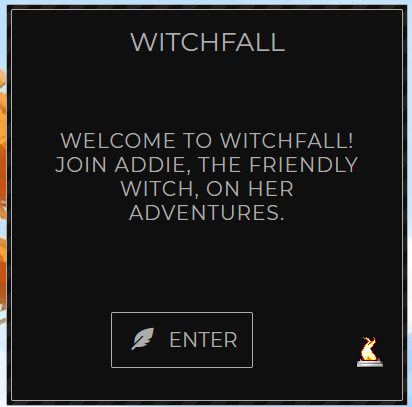
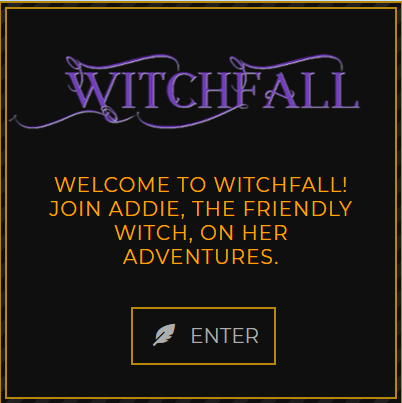
updated: updated ReadMe with new screenshots, more game play explanation, and local run instructions

diff --git a/README.md b/README.md
@@ -1,20 +1,22 @@
+<body style="background-color:black">
+
 ![WitchFall Logo](docs/assets/witchfall-a.png)
 
-# WITCHFALL RPG - A STUDENT FINAL PROJECT
+# <span style="color:orange">WITCHFALL RPG - A STUDENT FINAL PROJECT</span>
 
 
  ![Halloween Kitties](docs/assets/cat4.png)
 
 [![All Contributors](https://img.shields.io/badge/all_contributors-3-green.svg?style=flat-square)](#contributors)
 
-JUST IN TIME FOR HALLOWEEN! ![Halloween Kitties](docs/assets/evilpumpkin__by_clairebearer.gif)<br>
+<span style="color:orange">JUST IN TIME FOR HALLOWEEN!</span> ![Halloween Kitties](docs/assets/evilpumpkin__by_clairebearer.gif)<br>
 WitchFall lets you follow the adventures of Addie, the Friendly Witch.  In this Beta version, explore the town of Pumpkin Falls, where it is always October and the air smells like pumpkin spice!  This is a Halloween-themed, friendly game that our team plans to continue developing as part of our portfolio.
 
 Based on the Open-Source framework of [React RPG](https://react-rpg.com/) by [Andrew Steinheiser](https://github.com/ASteinheiser/react-rpg.com), WitchFall is a"Work-In-Progress" RPG made with React and Redux.  The game is a turn-based, dungeon crawler that is slowly being changed to a quest system. Currently you can walk through the village in level 1, battling spiders and checking out the adorable environment.
 
 
 
-[Play WitchFall!](https://witchfall.herokuapp.com/)   ![Halloween Kitties](docs/assets/darkmoon3636.gif)
+[Play WitchFall Here!](https://witchfall.herokuapp.com/)   ![Halloween Kitties](docs/assets/darkmoon3636.gif)
 
 ## Requirements
 -  ReactJS  ![](docs/assets/check1.png)
@@ -28,20 +30,47 @@ Based on the Open-Source framework of [React RPG](https://react-rpg.com/) by [An
 -  MVC Folder Structure  ![](docs/assets/check1.png)
 
 
+## How To Play
+<span style="color:lawngreen">Addie starts off with a staff that she can use to get rid of the pesky spiders. The space-bar or enter-key will cast a spell at the spiders.</span>
+
+<span style="color:lawngreen">Tree stumps can hold gold, experience and even special items! Walk into the stump to trigger this. The look of the tree stump will change after you've emptied it.
+</span>
+
+<span style="color:lawngreen">In the settings folder, <ins>IF</ins> you have logged in with Google, you can 'Save Score' to add your name and level to the Leaderboard.
+</span>
+
+![WitchFall Intro](docs/assets/crouching_kitty.gif)
+
 ### Opening screens:
-![WitchFall Intro](docs/assets/witchfall1.png) - ![WitchFall Game Screen 1](docs/assets/witchfall2.png)
+![WitchFall Intro](docs/assets/witchfall1.png) &nbsp; ![WitchFall Game Screen 1](docs/assets/witchfall2.png)
 
 ### Game Controls:
 ![WitchFall Gameplay](docs/assets/witchfall3.png) 
 
-### Tree Stumps Hold Loot & You Can Whack Spiders With Your Staff:
-![Tree Stumps are Treasure Chests](docs/assets/witchfall4.png) &nbsp; ![Whack Spiders With Your Staff!](docs/assets/witchfall5.png)
+### Game Play - You can see that one stump has been emptied, the other still has loot. Also, as we build out the game, you will be able to walk into the buildings to explore other levels:
+![Tree Stumps are Treasure Chests](docs/assets/witchfall7.png) &nbsp; ![Whack Spiders With Your Staff!](docs/assets/witchfall8.png)
 
-### In the settings screen, you can turn the music on and off, and you can restart the game:
-![Settings 1](docs/assets/witchfall6.png) 
-![Settings 2](docs/assets/witchfall7.png)
+### In the settings screen, you can turn the music on and off, and you can restart the game. You can also save your level to see if you made it onto the Leaderboard (must log into Google first):
+![Settings 1](docs/assets/witchfall11.png)
 
 
+## How To Play Locally
+Clone and fork the repo to your system.
+
+CD into the main game folder & install all the NPM:
+```javascript
+npm install
+```
+Then CD into the client folder and do it again:
+```javascript
+npm install
+```
+Then you can run it from the client folder:
+```javascript
+npm run start
+```
+
+<br />
 
 ### Read more about React RPG
 - [Medium: Making an RPG with React + Redux - written by the maker of the original game code!](https://medium.com/@andrewsteinheiser/making-an-rpg-with-react-redux-dcfffdb06797)
@@ -63,3 +92,4 @@ Based on the Open-Source framework of [React RPG](https://react-rpg.com/) by [An
 </tr></table>
 
 <!-- ALL-CONTRIBUTORS-LIST:END -->
+</body>
